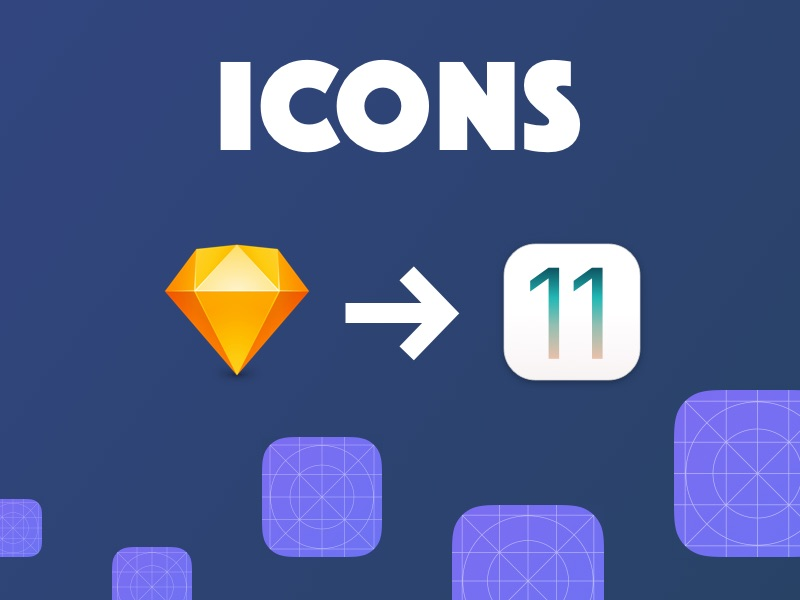
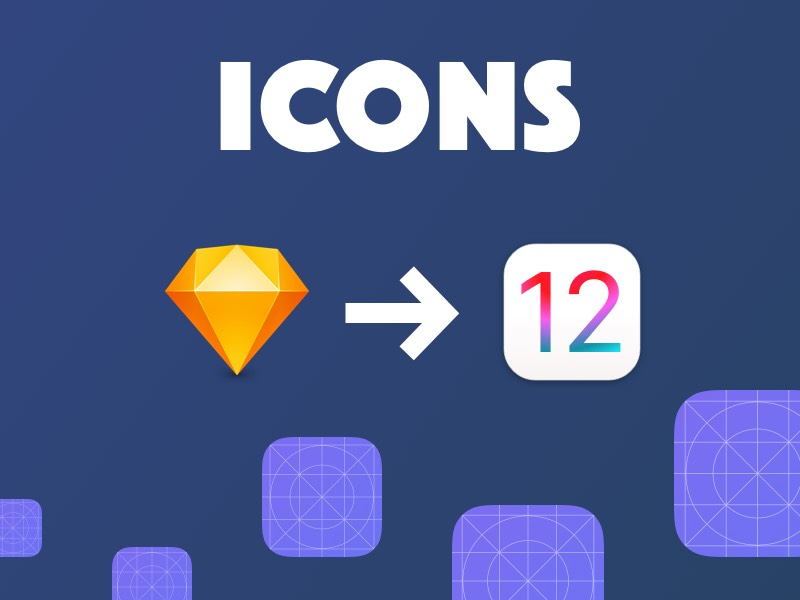
Update iOS version in README

Changed region(s): [[0.6562, 0.45, 0.7812, 0.6]]

diff --git a/README.md b/README.md
@@ -1,6 +1,6 @@
 # icons
 
-### Sketch template for generating all iOS 11 app icon sizes
+### Sketch template for generating all iOS 12 app icon sizes
 
 <img src="promo/icons_dribbble.jpg" width="450">
 
